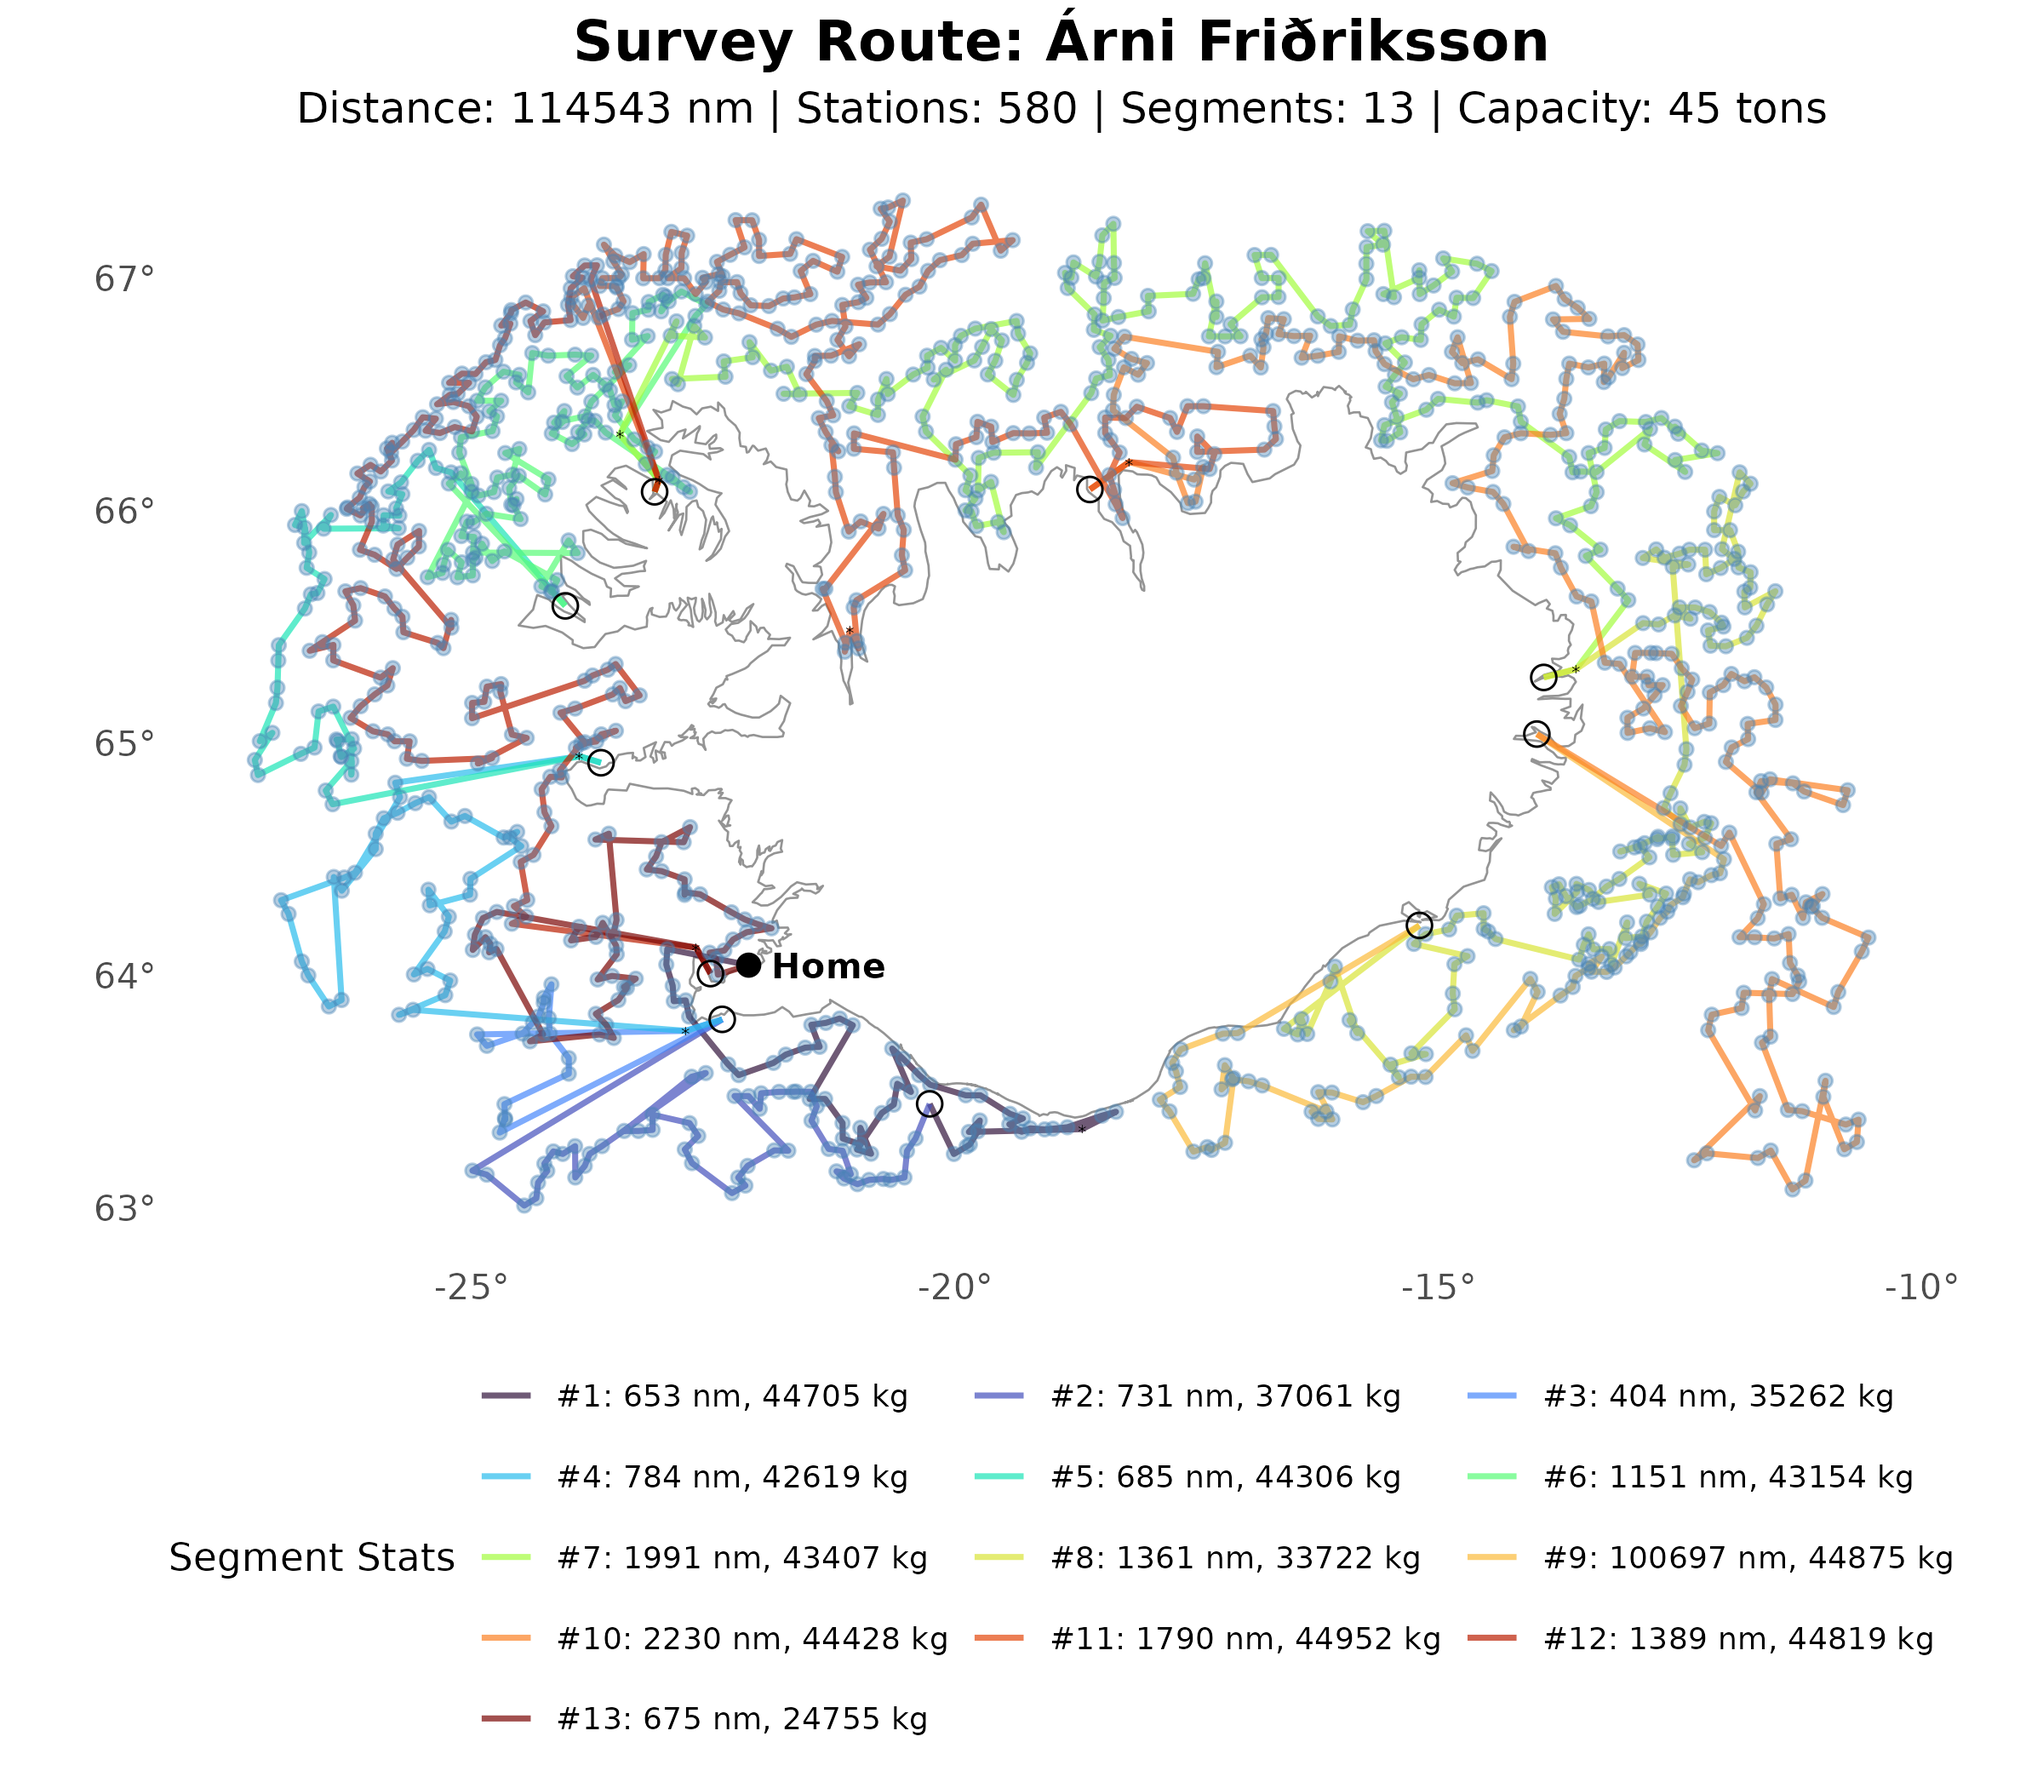
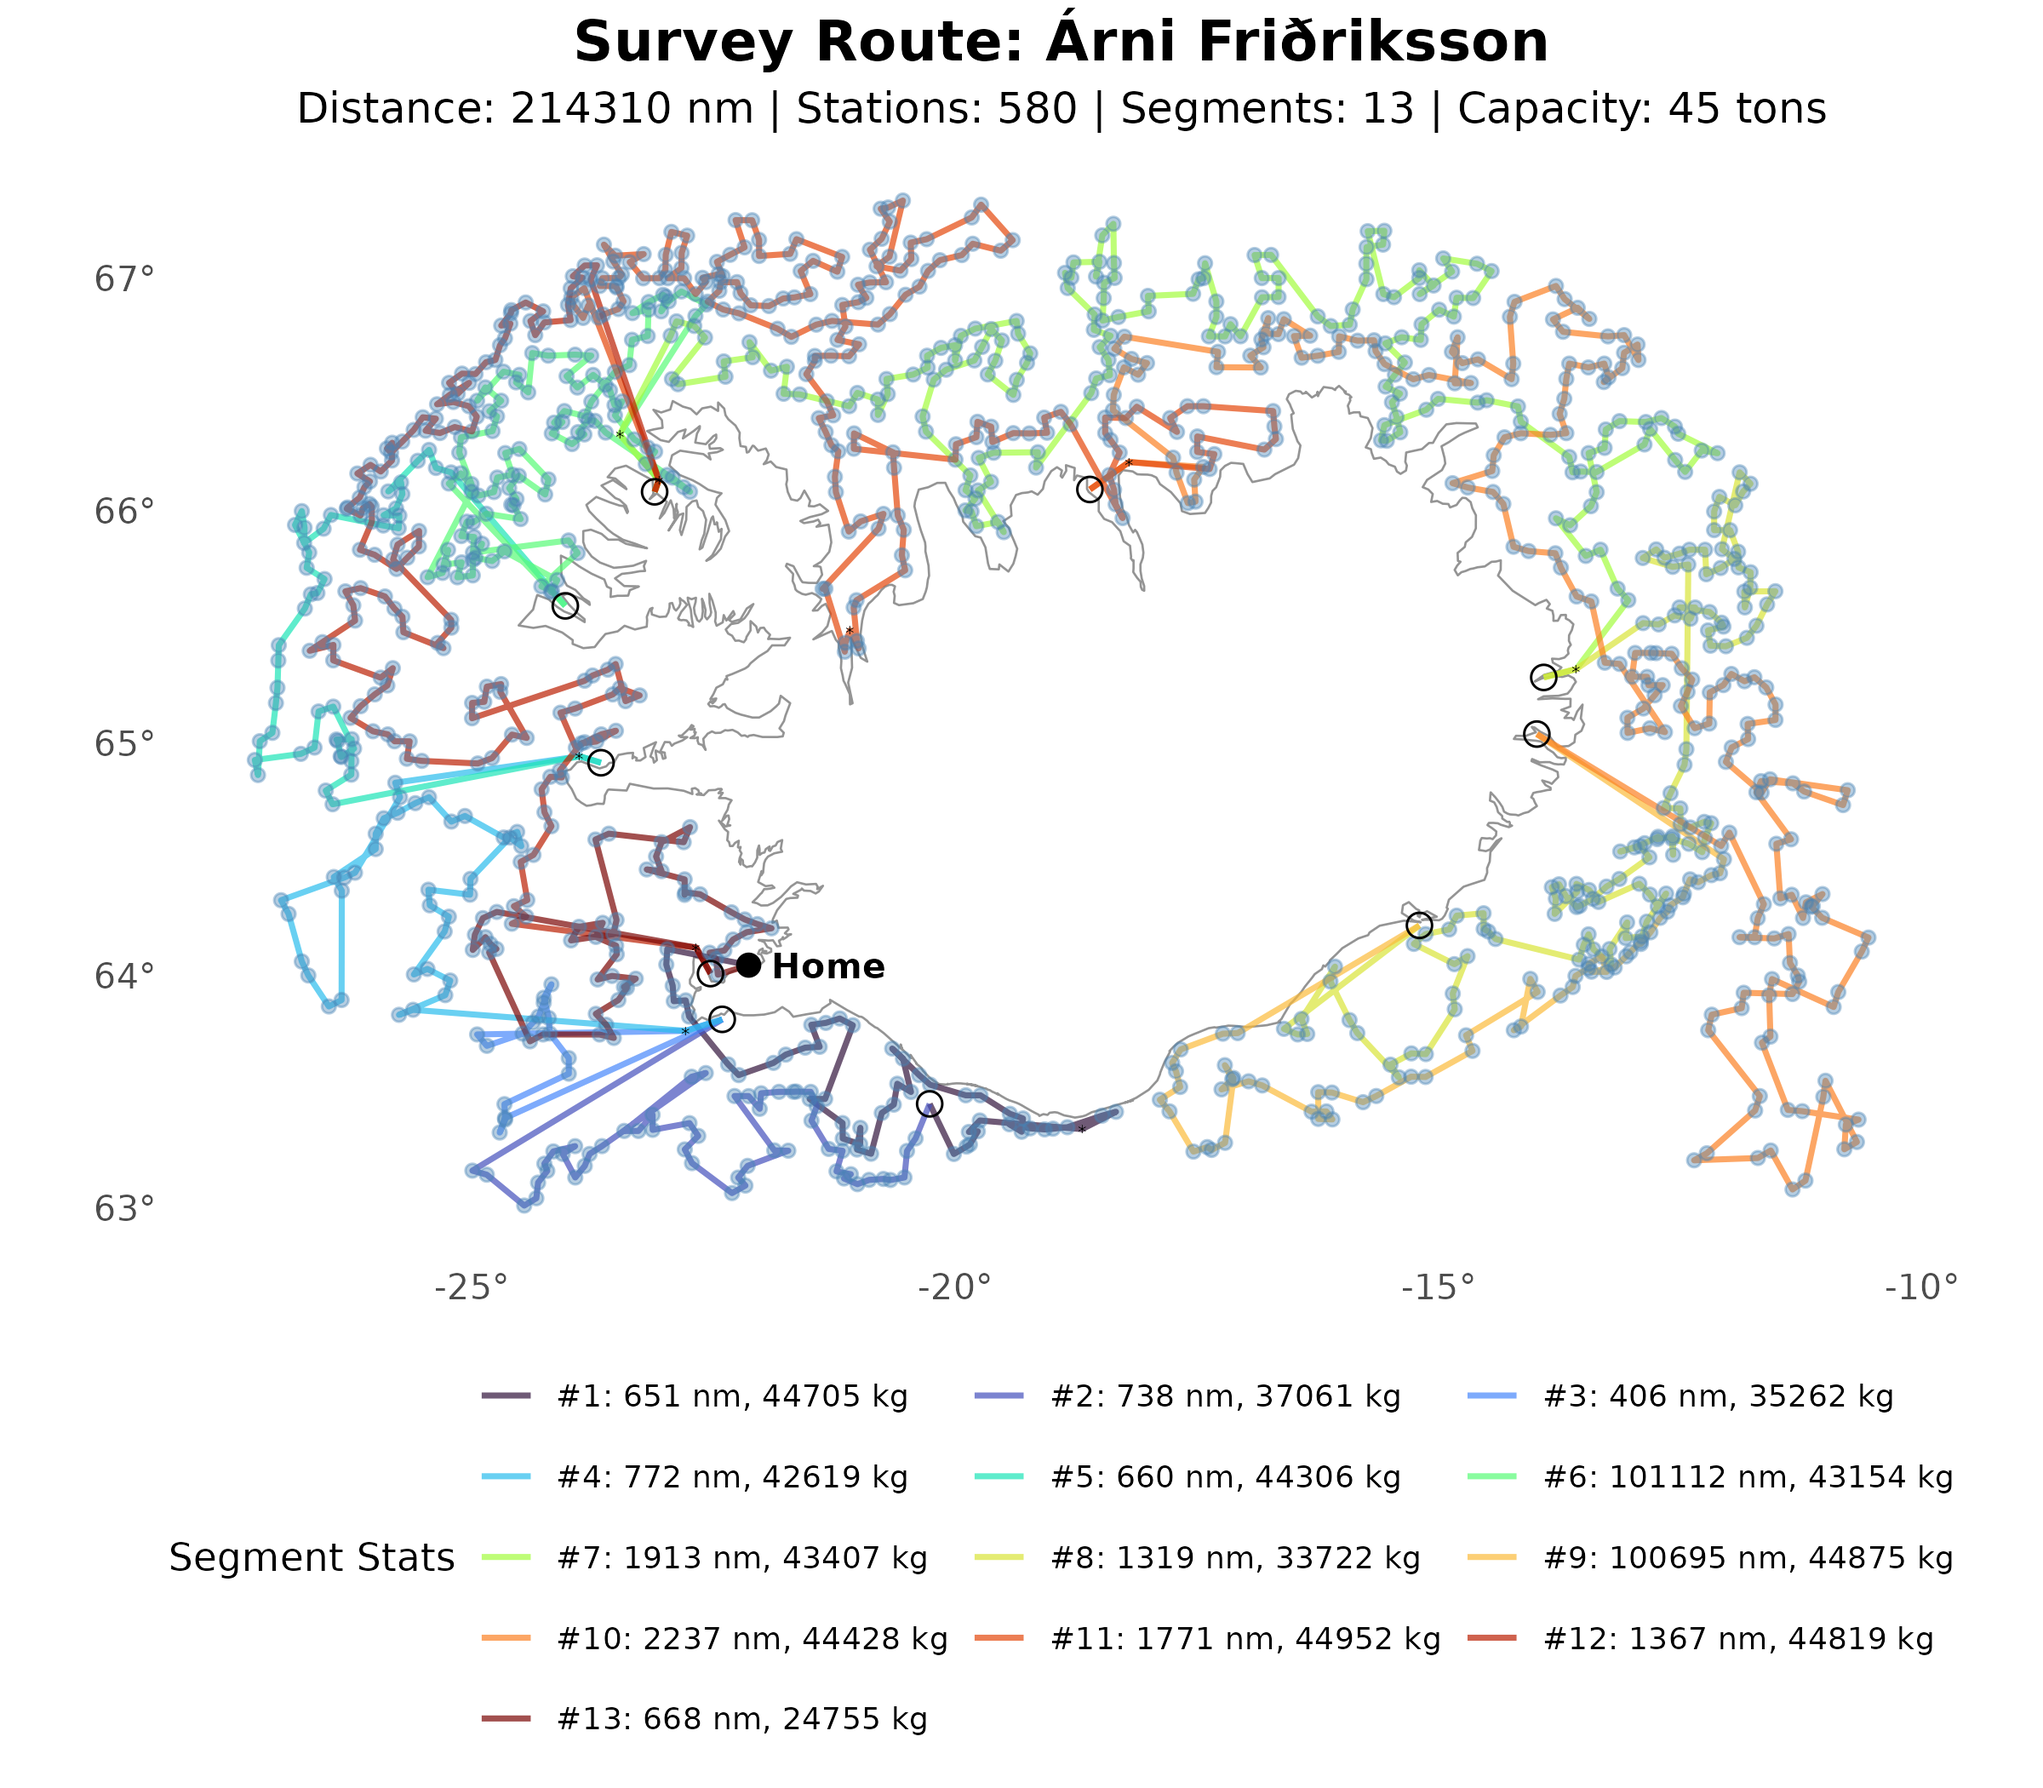
Refactor: Enhance station traversal logic and optimize distance calculations

diff --git a/src-refactor/init/greedy_insertion.c b/src-refactor/init/greedy_insertion.c
@@ -131,27 +131,25 @@ int gi_solve(const nn_instance_t *inst, nn_solution_t *sol,
             segment_start_idx = new_seg_start;
         }
 
-        int stat_start = inst->nodes[station_idx].start_loc_id;
-        int stat_end   = inst->nodes[station_idx].end_loc_id;
+        int stat_entry, stat_exit;
+        double stat_added = 0.0;
+        if (!choose_station_orientation(inst, current_loc_id, station_idx, &stat_entry, &stat_exit, &stat_added)) {
+            free(station_order); return -1;
+        }
+
         // Emit station traversal and attach it to the current segment id.
-        if (!grow_int_array(&tour,                &tour_cap,      tour_len + ((stat_end != stat_start) ? 2 : 1)) ||
+        if (!grow_int_array(&tour,                &tour_cap,      tour_len + ((stat_exit != stat_entry) ? 2 : 1)) ||
             !grow_int_array(&visit_station_ids,   &visit_ids_cap, visit_station_count + 1) ||
             !grow_int_array(&visit_station_segment,&visit_seg_cap,visit_station_count + 1)) {
             free(station_order); return -1;
         }
 
-        double d1 = get_distance(inst, current_loc_id, stat_start);
-        if (d1 > 0.0) current_segment_dist += d1;
-        tour[tour_len++] = stat_start;
-
-        if (stat_end != stat_start) {
-            double d2 = get_distance(inst, stat_start, stat_end);
-            if (d2 > 0.0) current_segment_dist += d2;
-            tour[tour_len++] = stat_end;
-            current_loc_id = stat_end;
-        } else {
-            current_loc_id = stat_start;
+        if (stat_added > 0.0) current_segment_dist += stat_added;
+        tour[tour_len++] = stat_entry;
+        if (stat_exit != stat_entry) {
+            tour[tour_len++] = stat_exit;
         }
+        current_loc_id = stat_exit;
 
         current_load += next_catch;
         visit_station_ids[visit_station_count]     = inst->nodes[station_idx].table_id;

diff --git a/src-refactor/init/cheapest_insertion.c b/src-refactor/init/cheapest_insertion.c
@@ -173,28 +173,25 @@ int ci_solve(const nn_instance_t *inst, nn_solution_t *sol,
             }
         }
 
-        int stat_start = inst->nodes[st_idx].start_loc_id;
-        int stat_end = inst->nodes[st_idx].end_loc_id;
+        int stat_entry, stat_exit;
+        double stat_added = 0.0;
+        if (!choose_station_orientation(inst, current_loc_id, st_idx, &stat_entry, &stat_exit, &stat_added)) {
+            free(station_order); return -1;
+        }
 
-        // Emit station start/end legs and register station->segment mapping.
-        if (!grow_int_array(&tour, &tour_cap, tour_len + ((stat_end != stat_start) ? 2 : 1)) ||
+        // Emit station traversal and register station->segment mapping.
+        if (!grow_int_array(&tour, &tour_cap, tour_len + ((stat_exit != stat_entry) ? 2 : 1)) ||
             !grow_int_array(&visit_station_ids, &visit_ids_cap, visit_station_count + 1) ||
             !grow_int_array(&visit_station_segment, &visit_seg_cap, visit_station_count + 1)) {
             free(station_order); return -1;
         }
 
-        double d1 = get_distance(inst, current_loc_id, stat_start);
-        if (d1 > 0.0) current_segment_dist += d1;
-        tour[tour_len++] = stat_start;
-
-        if (stat_end != stat_start) {
-            double d2 = get_distance(inst, stat_start, stat_end);
-            if (d2 > 0.0) current_segment_dist += d2;
-            tour[tour_len++] = stat_end;
-            current_loc_id = stat_end;
-        } else {
-            current_loc_id = stat_start;
+        if (stat_added > 0.0) current_segment_dist += stat_added;
+        tour[tour_len++] = stat_entry;
+        if (stat_exit != stat_entry) {
+            tour[tour_len++] = stat_exit;
         }
+        current_loc_id = stat_exit;
 
         current_load += st_amount;
         visit_station_ids[visit_station_count] = inst->nodes[st_idx].table_id;

diff --git a/src-refactor/init/init_utils.h b/src-refactor/init/init_utils.h
@@ -160,4 +160,48 @@ static inline double min_dist_from_loc_to_node(const nn_instance_t *inst, int fr
     return (d_start < d_end) ? d_start : d_end;
 }
 
+/* Choose station traversal orientation from a current location.
+ * Returns 1 on success, 0 if no valid directed traversal is available.
+ * Chosen path is either current->start->end or current->end->start. */
+static inline int choose_station_orientation(
+    const nn_instance_t *inst,
+    int current_loc_id,
+    int station_idx,
+    int *entry_loc,
+    int *exit_loc,
+    double *added_dist)
+{
+    int s = inst->nodes[station_idx].start_loc_id;
+    int e = inst->nodes[station_idx].end_loc_id;
+
+    double d_cs = get_distance(inst, current_loc_id, s);
+    double d_se = get_distance(inst, s, e);
+    double d_ce = get_distance(inst, current_loc_id, e);
+    double d_es = get_distance(inst, e, s);
+
+    double opt_se = (d_cs > 0.0 && d_se > 0.0) ? (d_cs + d_se) : -1.0;
+    double opt_es = (d_ce > 0.0 && d_es > 0.0) ? (d_ce + d_es) : -1.0;
+
+    if (s == e) {
+        if (d_cs <= 0.0) return 0;
+        if (entry_loc) *entry_loc = s;
+        if (exit_loc) *exit_loc = e;
+        if (added_dist) *added_dist = d_cs;
+        return 1;
+    }
+
+    if (opt_se <= 0.0 && opt_es <= 0.0) return 0;
+
+    if (opt_es > 0.0 && (opt_se <= 0.0 || opt_es < opt_se)) {
+        if (entry_loc) *entry_loc = e;
+        if (exit_loc) *exit_loc = s;
+        if (added_dist) *added_dist = opt_es;
+    } else {
+        if (entry_loc) *entry_loc = s;
+        if (exit_loc) *exit_loc = e;
+        if (added_dist) *added_dist = opt_se;
+    }
+    return 1;
+}
+
 #endif
